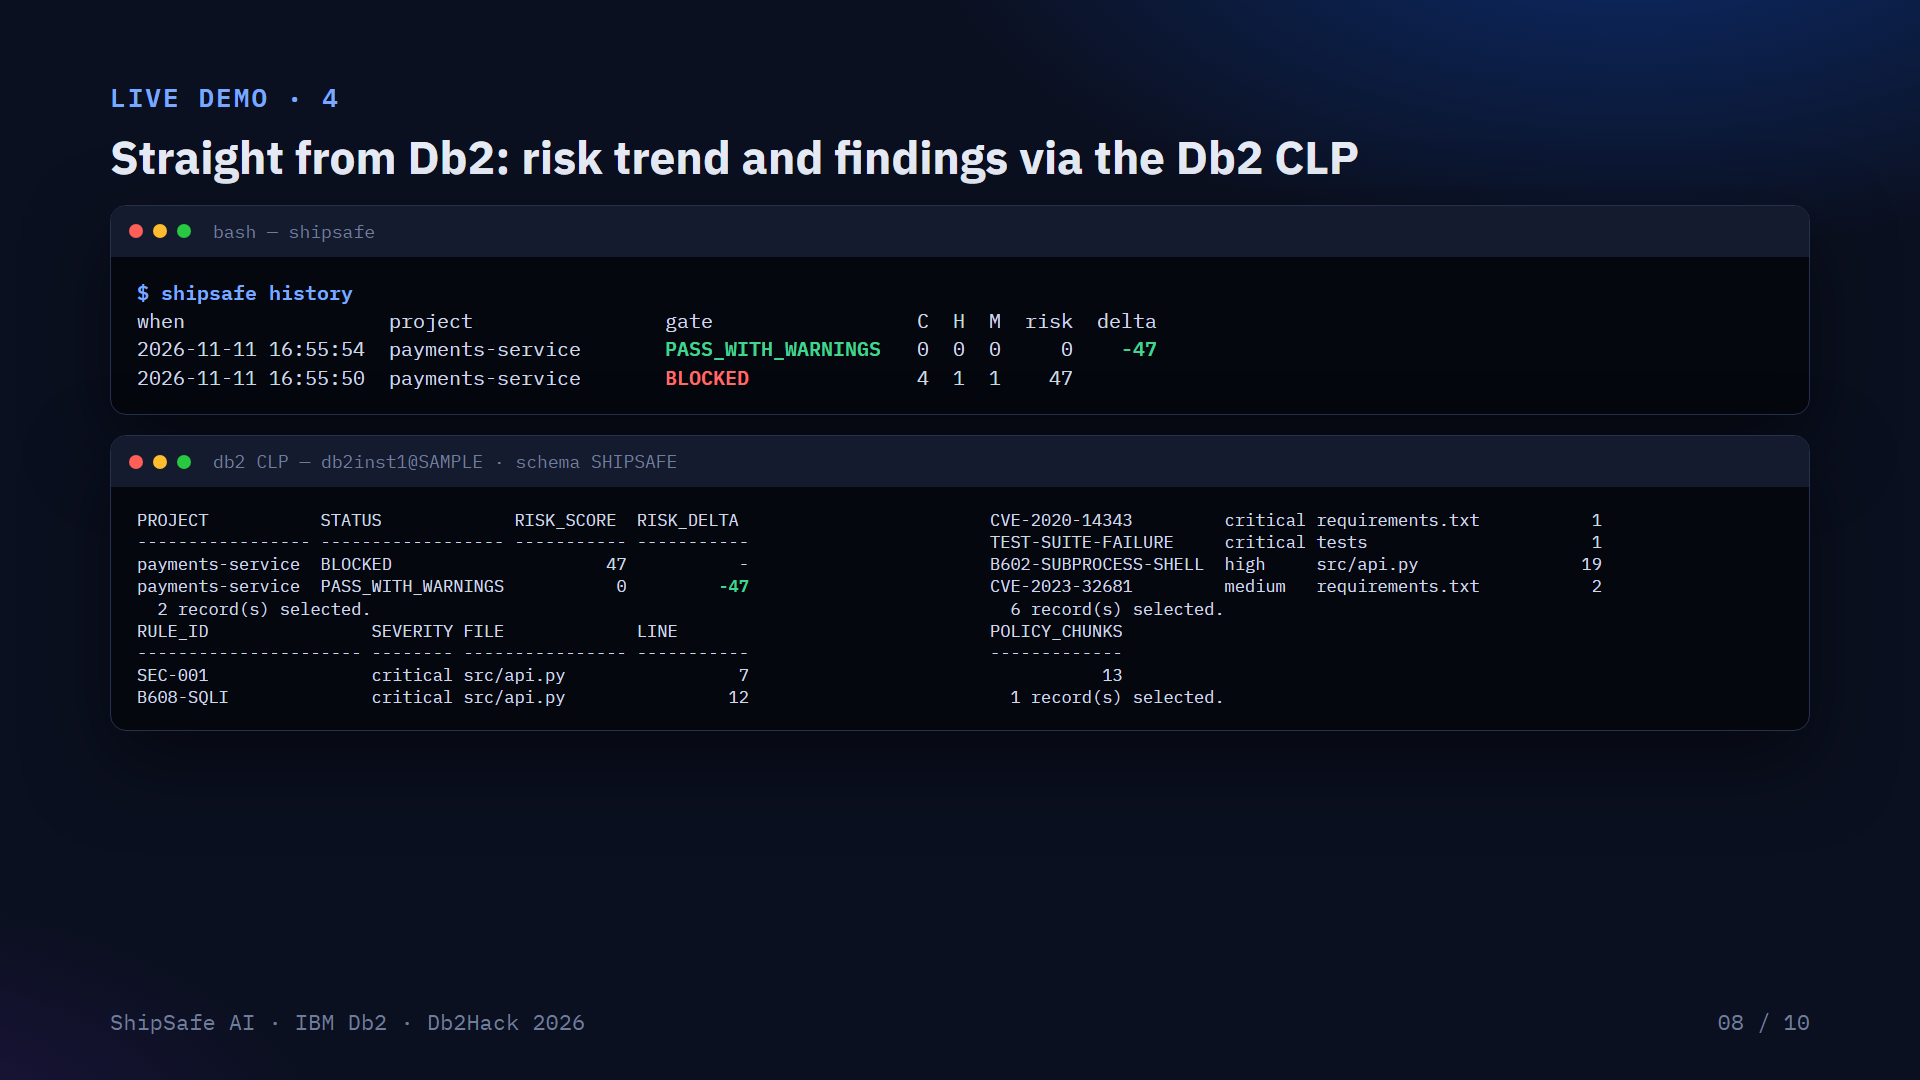
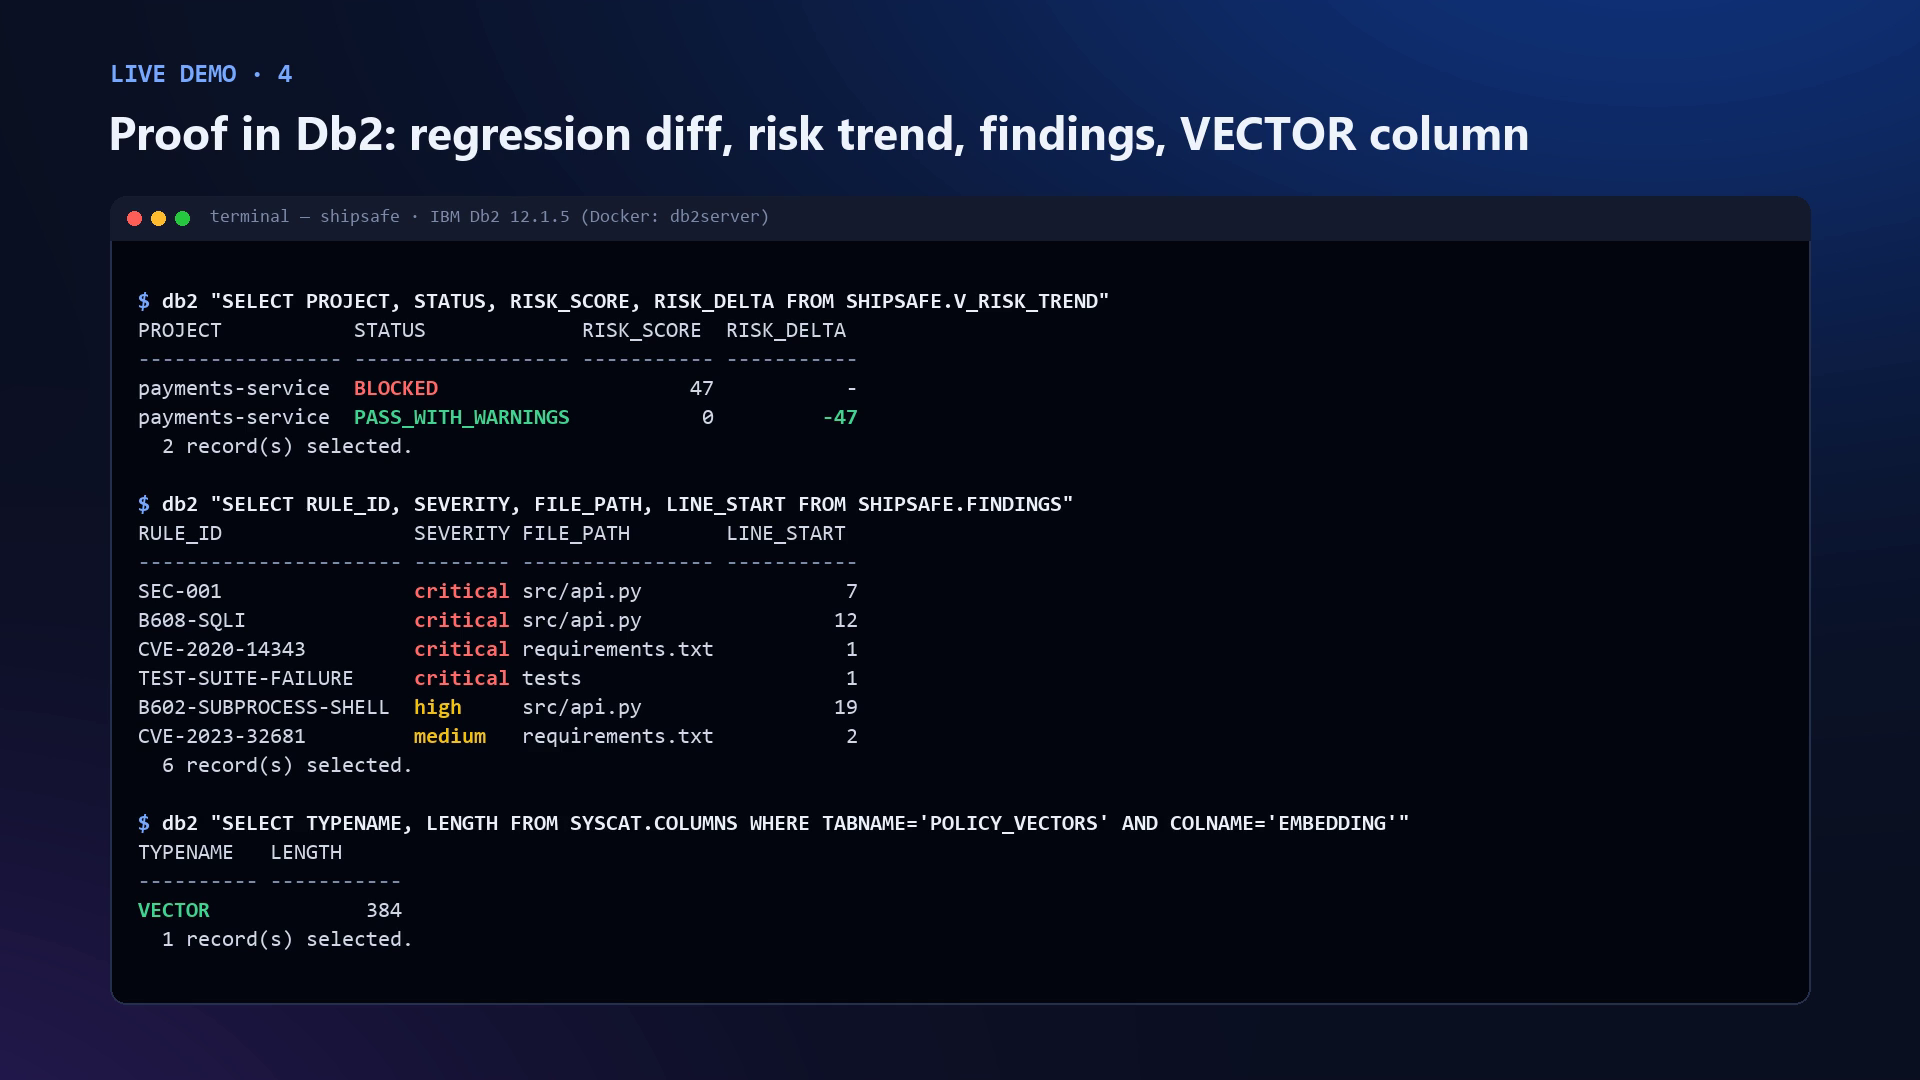
docs(shipsafe-ai): refresh README screenshots with live Db2 terminal captures

diff --git a/submissions/shipsafe-ai/README.md b/submissions/shipsafe-ai/README.md
@@ -2,6 +2,8 @@
 
 > **One-line pitch:** ShipSafe AI checks a repository before the pull request is opened (secrets, SQL injection, risky code, vulnerable dependencies, failing tests), returns a deterministic `PASS` / `PASS_WITH_WARNINGS` / `BLOCKED` decision, stores every assessment in **IBM Db2**, and attaches the governing engineering policy to each finding using **LangChain + Db2 vector search**.
 
+![ShipSafe AI blocking a risky payments service, with a Db2-retrieved policy cited for every finding](docs/screenshots/scan-blocked.png)
+
 ---
 
 ## Table of Contents
@@ -185,19 +187,22 @@ SELECT COUNT(*) FROM POLICY_VECTORS;
 - **Demo video:** linked in the pull request description
 - **Sample report:** [`docs/sample-report.md`](docs/sample-report.md), generated from a real run on the vulnerable fixture
 
-The screenshots below show real output against IBM Db2 12.1.5.
+Every screenshot below is real output from a single run against IBM Db2 Community Edition 12.1.5 in Docker.
 
-**1. A risky service is blocked, and each finding cites the policy retrieved from Db2**
+**1. Db2 is running, and ShipSafe connects to it.** Db2 server level, schema and the policy vector store are all confirmed.
+![Db2 running in Docker and shipsafe doctor](docs/screenshots/db2-docker-doctor.png)
+
+**2. A risky payments service gets blocked.** Six real problems were found, and each one cites the team policy Db2 retrieved for it.
 ![Scan blocked](docs/screenshots/scan-blocked.png)
 
-**2. After the fixes: the gate passes and the regression diff stored in Db2 shows 6 resolved**
-![Fixed and diff](docs/screenshots/scan-fixed-and-diff.png)
+**3. The code is fixed and scanned again.** The diff shows the fix, and the gate now clears with zero findings.
+![Fix and re-scan](docs/screenshots/scan-fixed-and-diff.png)
 
-**3. Queried directly with the Db2 CLP: risk trend view (`LAG()` delta), findings and policy vectors**
-![Db2 CLP](docs/screenshots/db2-risk-trend-clp.png)
+**4. Proof straight from Db2.** All six issues are resolved, the risk trend drops from 47 to 0, and the embeddings sit in a native `VECTOR(384)` column.
+![Db2 CLP queries](docs/screenshots/db2-risk-trend-clp.png)
 
-**4. Policy question answered by `VECTOR_DISTANCE` in Db2 via langchain-db2**
-![Vector search](docs/screenshots/db2-vector-policy-search.png)
+**5. Asking the policies a question.** Db2 ranks the policy chunks with `VECTOR_DISTANCE` and returns the right one, word for word.
+![Vector search in Db2](docs/screenshots/db2-vector-policy-search.png)
 
 ## Known Limitations & Future Roadmap
 - **Limitations:**
